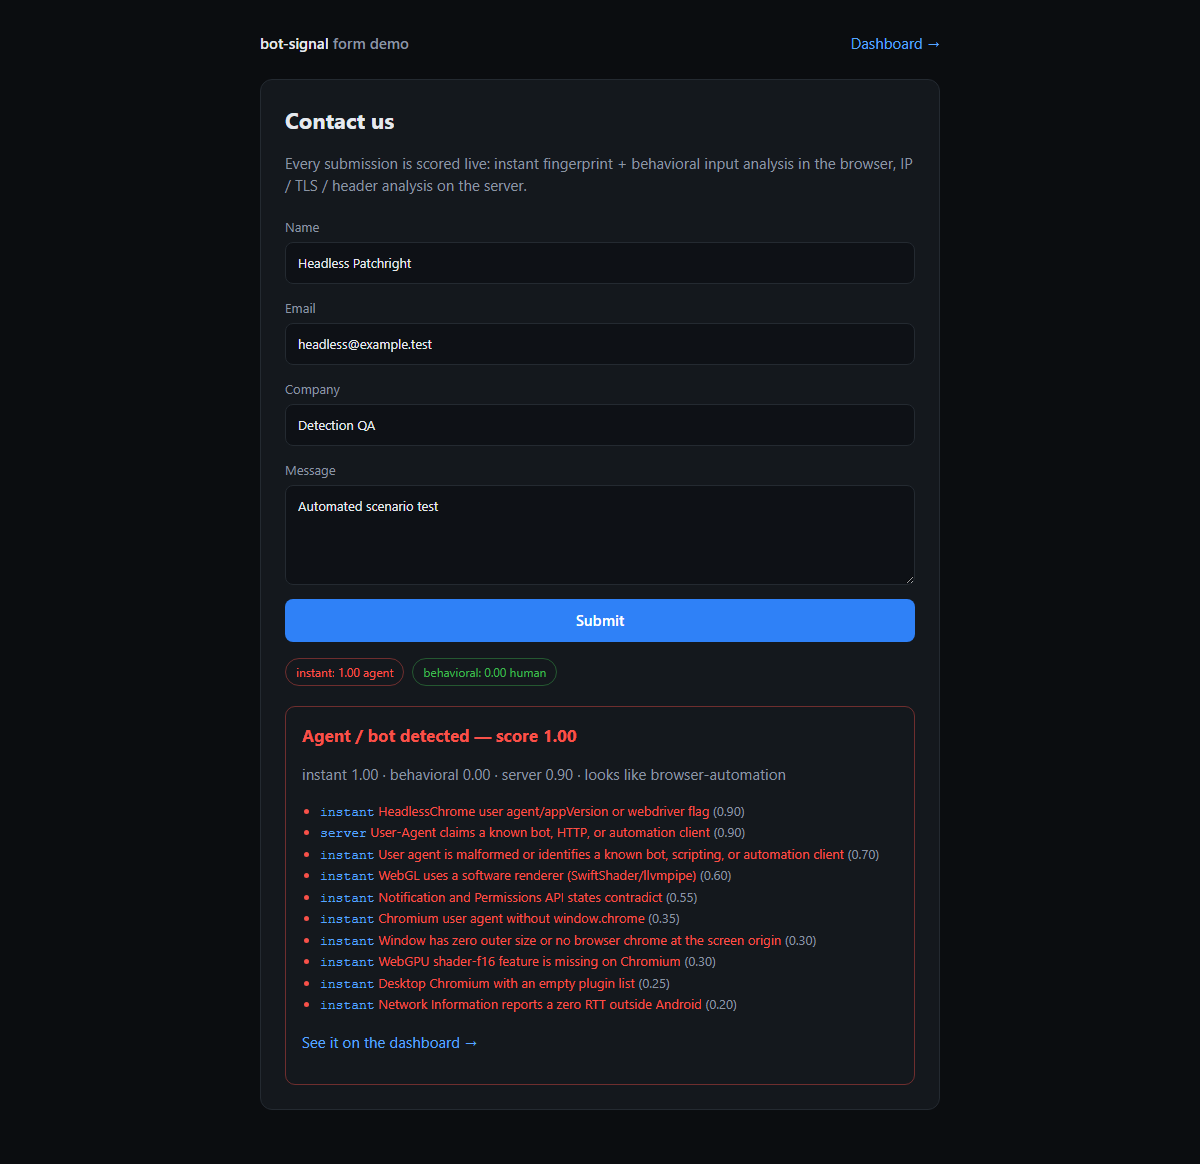
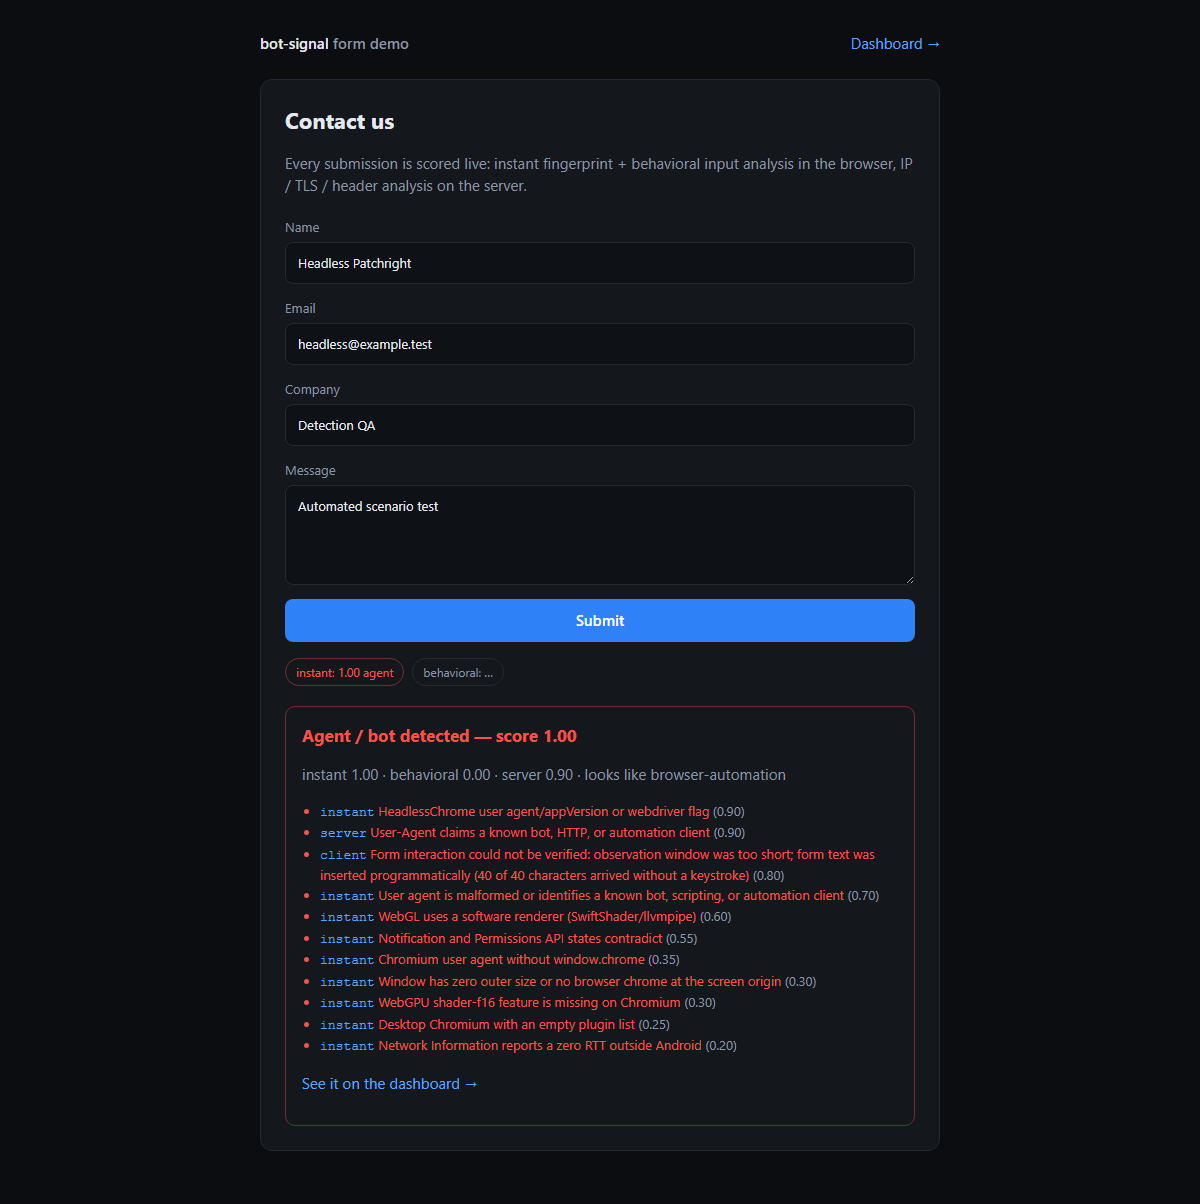
Reject form text that no keystroke produced

diff --git a/bot-signal/examples/form-demo/public/app.js b/bot-signal/examples/form-demo/public/app.js
@@ -15,6 +15,8 @@ const interaction = {
   untrustedFormEvents: 0,
   printableKeyEvents: 0,
   injectedKeyEvents: 0,
+  typedCharacters: 0,
+  bulkInsertedCharacters: 0,
   editedFields: new Set(),
   submitIntent: null,
 };
@@ -188,11 +190,26 @@ function isSubmitControl(target) {
   );
 }
 
+// A keyboard delivers one character per `insertText`. Automation that sets a
+// field's value in one call — Playwright's fill(), CDP Input.insertText, and the
+// element.value assignments behind most form bots — delivers the whole string in
+// a single event with no keystroke behind it. Paste, autofill, drag and IME
+// commits all carry their own inputType and are not counted here.
+function recordInsertion(event) {
+  if (event.isComposing) return;
+  const inserted = typeof event.data === "string" ? [...event.data].length : 0;
+  if (inserted === 0 || event.inputType !== "insertText") return;
+  if (inserted === 1) interaction.typedCharacters += 1;
+  else interaction.bulkInsertedCharacters += inserted;
+}
+
 function recordEditEvent(event) {
   if (!event.isTrusted) {
     interaction.untrustedFormEvents += 1;
     return;
   }
+
+  if (event.type === "beforeinput") recordInsertion(event);
 
   const name = fieldName(event);
   if (event.type === "beforeinput") interaction.trustedBeforeInputEvents += 1;
@@ -427,6 +444,8 @@ form.addEventListener("submit", async (event) => {
         untrustedFormEvents: interaction.untrustedFormEvents,
         printableKeyEvents: interaction.printableKeyEvents,
         injectedKeyEvents: interaction.injectedKeyEvents,
+        typedCharacters: interaction.typedCharacters,
+        bulkInsertedCharacters: interaction.bulkInsertedCharacters,
       },
     },
   };

diff --git a/Test_Report/probe/fill.html b/Test_Report/probe/fill.html
@@ -1,0 +1,17 @@
+<!doctype html><html><head><title>BSFILL-WINDOW</title></head>
+<body style="margin:0;background:#111;color:#eee;font:14px monospace">
+<form id="f"><input name="name"><textarea name="message"></textarea></form>
+<pre id="out">ready</pre>
+<script>
+const log = { beforeinput: [], input: [], keydownPrintable: 0, paste: 0 };
+const f = document.getElementById('f');
+f.addEventListener('beforeinput', e => {
+  log.beforeinput.push({ type: e.inputType, dataLen: (e.data||'').length, trusted: e.isTrusted });
+  dump();
+}, true);
+f.addEventListener('input', e => { log.input.push({ type: e.inputType, trusted: e.isTrusted }); dump(); }, true);
+f.addEventListener('keydown', e => { if (e.isTrusted && e.key && [...e.key].length===1) log.keydownPrintable++; dump(); }, true);
+f.addEventListener('paste', () => { log.paste++; dump(); }, true);
+function dump(){ document.documentElement.dataset.log = JSON.stringify(log); document.getElementById('out').textContent = JSON.stringify(log).slice(0,400); }
+dump();
+</script></body></html>

diff --git a/Test_Report/probe/fill_probe.py b/Test_Report/probe/fill_probe.py
@@ -1,0 +1,17 @@
+import json, time, sys
+from patchright.sync_api import sync_playwright
+url = "file:///" + __file__.replace("\\", "/").rsplit("/", 1)[0] + "/fill.html"
+with sync_playwright() as p:
+    b = p.chromium.launch(headless=False, channel="chrome")
+    pg = b.new_page()
+    pg.goto(url); time.sleep(1)
+    pg.fill("input[name=name]", "Kavin Kumar")
+    pg.fill("textarea[name=message]", "Following up on the bot-signal demo - could you share pricing?")
+    time.sleep(0.8)
+    log = pg.evaluate("() => document.documentElement.dataset.log")
+    print("PATCHRIGHT fill():", log)
+    pg.locator("input[name=name]").click()
+    pg.keyboard.type("abc", delay=60)
+    time.sleep(0.5)
+    print("after real type():", pg.evaluate("() => document.documentElement.dataset.log"))
+    b.close()

diff --git a/README.md b/README.md
@@ -4,7 +4,7 @@ A self-hosted contact form that decides, per submission, whether it was filled i
 by an **agent / bot** — with no auth, no CAPTCHA, no third-party API and no outbound network calls at
 request time. Every signal is computed locally from the browser and from the HTTP request itself.
 
-Latest verified run: **84/84 harness tests, 400 unit tests, 30 crosscheck cases**, and **66/66
+Latest verified run: **86/86 harness tests, 400 unit tests, 30 crosscheck cases**, and **66/66
 agent-driven submissions in the harness matrix are classified as AGENT** — including a real PowerShell `SendInput` session driving a live
 Chrome window. That is a rate over the attacks in the matrix, not a claim of completeness: an
 independent red team passed four methods it does not contain (see **Known-open vectors** below).
@@ -28,7 +28,7 @@ Reports live in `Test_Report/`.
 │     ├─ bots/                      # scripted + browser bot simulators
 │     └─ public/                    # index.html (form), dashboard.html, app.js, styles.css
 └─ Test_Report/
-   ├─ run_tests.mjs                 # 84-case end-to-end harness (Patchright + direct HTTP)
+   ├─ run_tests.mjs                 # 86-case end-to-end harness (Patchright + direct HTTP)
    ├─ probe/                        # OS input-injection measurement + replay tooling
    ├─ generate_agent_detection_report.mjs
    ├─ results.json                  # raw results of the last run
@@ -253,6 +253,9 @@ On top of those, the demo server refuses anything that did not come from a real 
   (`styles.css`, `bot-signal.global.js`, `app.js`) were actually fetched with matching Fetch
   Metadata — a direct HTTP client that copies browser headers still leaves no page-load trail;
 - **trusted** form input and submit intent (`event.isTrusted`), with no untrusted form events;
+- **text that a keyboard could have produced**: a keyboard delivers one character per `insertText`,
+  while `fill()`, CDP `Input.insertText` and `element.value = …` deliver a whole field in one event.
+  Paste, autofill, drag and IME commits carry their own `inputType` and are never counted;
 - a **behavioral score the server derived**, not one the client reported — mismatches between the two
   fire `forged-client-verdict`, and a missing sample set fires `missing-behavioral-samples`;
 - an **observation window that fits inside the page session**. Both sides are durations, never
@@ -388,7 +391,7 @@ node examples/form-demo/crosscheck.mjs     # 30 server-detection cases
 
 npx patchright install chromium            # once, for the browser harness
 cd ../Test_Report
-node run_tests.mjs                         # 84 end-to-end cases -> results.json
+node run_tests.mjs                         # 86 end-to-end cases -> results.json
 node generate_agent_detection_report.mjs   # -> HTML + PDF report
 ```
 

diff --git a/Test_Report/BYPASS_MATRIX.md b/Test_Report/BYPASS_MATRIX.md
@@ -101,3 +101,47 @@ nonce chain across real wall-clock time, which is the intended price, not an acc
 C4, C6, C7 and C8 drive the real page, so the page solves the proof of work and beacons on their
 behalf. Nothing in round 2 touches them, and nothing is expected to: they submit genuine samples of
 input a browser cannot distinguish from a hand's.
+
+---
+
+## Round 3 — stealth frameworks, and the absence pattern
+
+A third round tested the 2025–26 stealth automation frameworks. **patchright** — isolated-world
+Playwright — passed out of the box at `human 0.20`, which is the off-the-shelf version of the raw-CDP
+case: `pip install patchright`, no fingerprint work required.
+
+The cause was not the fingerprint. It was that `pg.fill()` puts a whole field into the form in one
+call, so the behavioral layer had almost no evidence to score — and scoring near-empty evidence as
+`0.00` treats absence of evidence as evidence of humanity.
+
+Measured against Chrome 153, the distinction is exact:
+
+| Method | `beforeinput` events | printable keydowns |
+|---|---|---|
+| `pg.fill("input", "Kavin Kumar")` | **one** `insertText`, `data.length = 11` | **0** |
+| real typing | one `insertText` per character, `data.length = 1` | one per character |
+
+A keyboard delivers one character per event. Paste arrives as `insertFromPaste`, autofill as
+`insertReplacementText`, drag as `insertFromDrop`, IME commits under their own types — none are
+counted. The check fires when at least 12 characters, and at least 60% of the form's text, arrive in
+bulk inserts with no keystroke behind them, so a mobile word-suggestion alongside real typing does not
+trip it.
+
+| Case | Before | Now |
+|---|:---:|:---:|
+| `patchright_test.py` | 🟢 human 0.20 | 🔴 **agent 0.84** — `146 of 146 characters arrived without a keystroke` |
+| `nodriver_test.py` | 🔴 agent 0.90 | 🔴 agent 0.90 (unchanged — `synthetic-events`) |
+| `pw_test.py` | 🔴 agent 1.00 | 🔴 agent 1.00 |
+
+This is the highest-value catch in the whole exercise, because setting a field's value in one call is
+how nearly every real-world form bot works — Playwright and Puppeteer `fill()`, Selenium
+`send_keys` on some drivers, CDP `Input.insertText`, and plain `element.value = …`.
+
+**TLS.** The HTTP forges present a Python/HTTP-1.1 JA4 against a Chrome UA, which is invisible on a
+plain-HTTP localhost target and only becomes a signal behind an edge with `TRUST_EDGE_HEADERS=1`
+populating `x-ja4`. `curl_cffi(impersonate="chrome")` closes that gap for an attacker. Browser-driven
+methods are inherently immune, being Chrome. Worth enabling in any real deployment; it changes nothing
+here.
+
+**Still open:** C4, C6, C7, C8 — genuine trusted input, driven through the real page, typed character
+by character. They do not use bulk insertion, so this check does not touch them.
